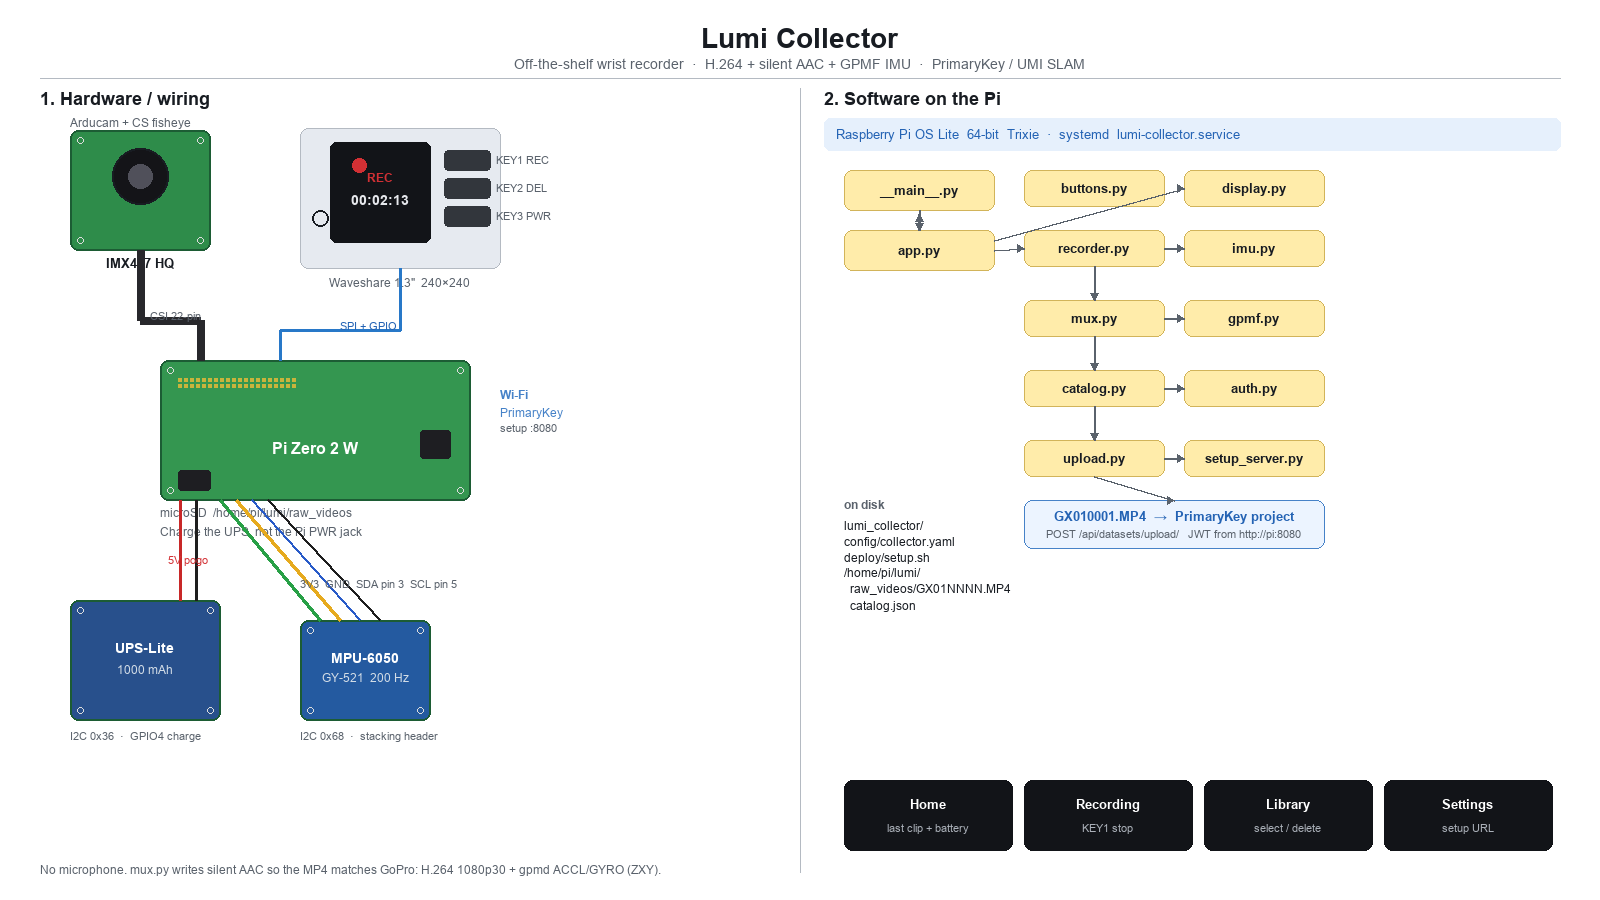
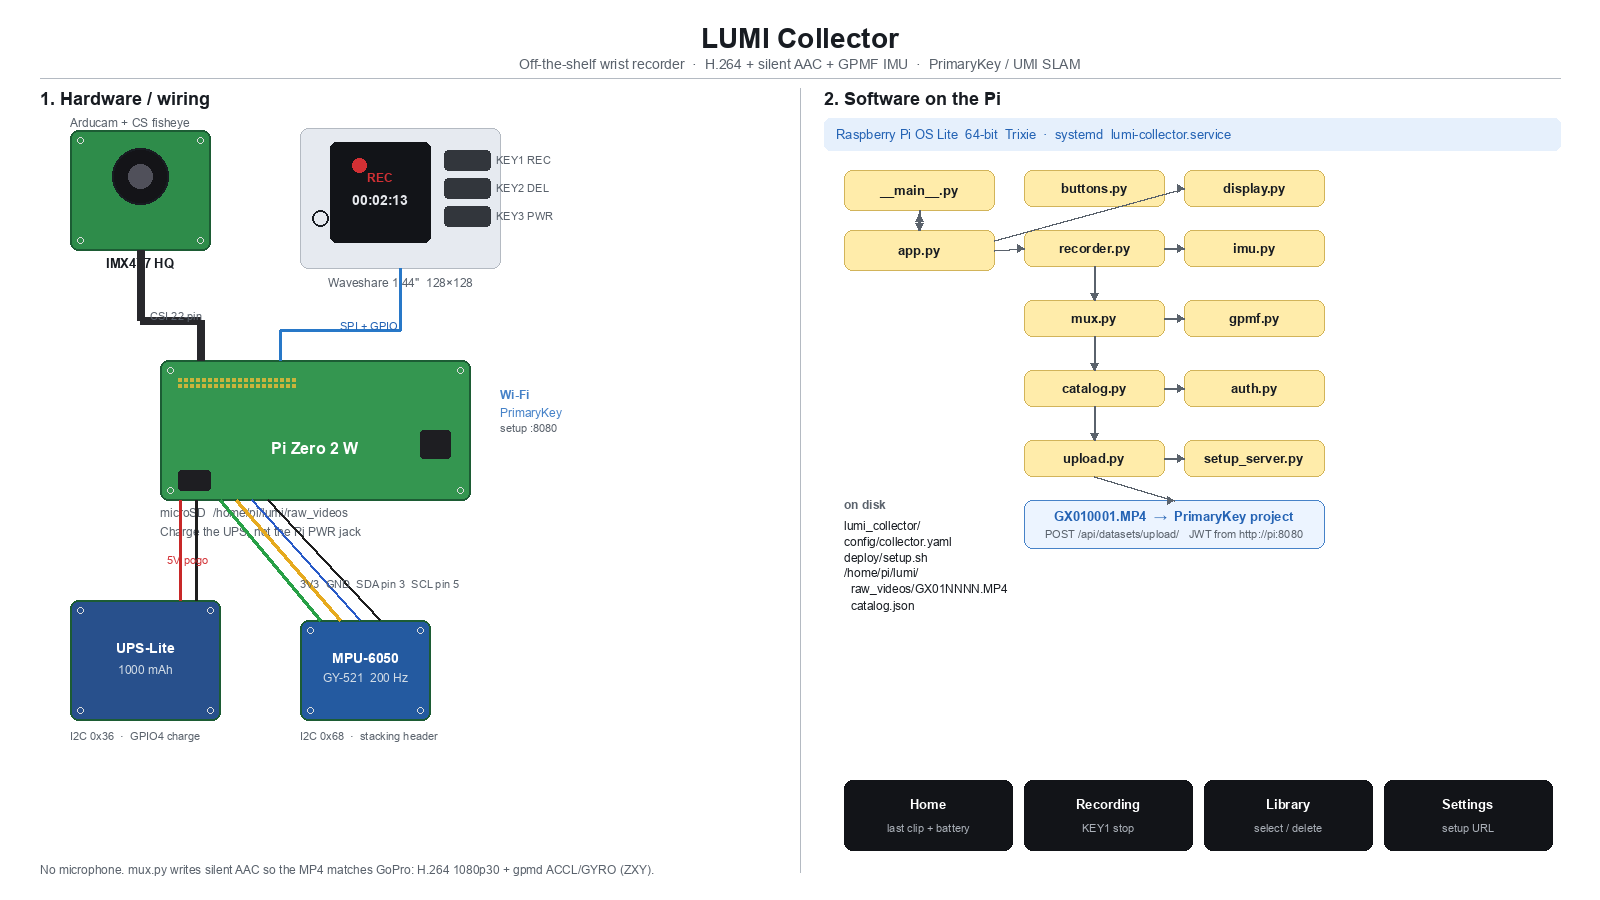
Update project references from "Lumi" to "LUMI" across various files, including descriptions, documentation, and code comments, to ensure consistent branding.

diff --git a/cad/create_onshape_enclosure.py b/cad/create_onshape_enclosure.py
@@ -1,4 +1,4 @@
-"""Create the Lumi collector enclosure as native Onshape sketches.
+"""Create the LUMI collector enclosure as native Onshape sketches.
 
 The Part Studio is sketches + extrudes, not an imported solid. Open any sketch
 in the feature tree and edit it. Key sizes are Onshape variables; the sketch
@@ -421,7 +421,7 @@ def main() -> None:
         "POST",
         "/api/v6/documents",
         {
-            "name": "Lumi collector enclosure",
+            "name": "LUMI collector enclosure",
             "description": (
                 "Drop-in replacement for the GoPro Hero 10 Black in the UMI holder. "
                 "Front profile is the Hero 10 body. Edit the sketches, or the variables "

diff --git a/lumi_collector/setup_server.py b/lumi_collector/setup_server.py
@@ -12,13 +12,13 @@ from lumi_collector.config import CollectorConfig
 
 _PAGE = """<!doctype html>
 <meta name="viewport" content="width=device-width, initial-scale=1">
-<title>Lumi collector</title>
+<title>LUMI collector</title>
 <style>
  body { font: 16px/1.4 system-ui; max-width: 28rem; margin: 2rem auto; padding: 0 1rem; }
  input, select, button { width: 100%; margin: .3rem 0 1rem; padding: .5rem; }
  .ok { color: #1a7f37 } .err { color: #b42318 }
 </style>
-<h1>Lumi collector</h1>
+<h1>LUMI collector</h1>
 <p class="{cls}">{message}</p>
 <form method="post">
  <label>PrimaryKey URL</label>

diff --git a/lumi_collector/display.py b/lumi_collector/display.py
@@ -142,7 +142,7 @@ def render(
     d.text((CANVAS[0] - 6, 3), f"{hud.free_gb:.1f} GB", font=small, fill=MUTED, anchor="ra")
 
     if state.screen is Screen.HOME:
-        d.text((8, 32), "Lumi collector", font=title, fill=FG)
+        d.text((8, 32), "LUMI collector", font=title, fill=FG)
         last = episodes[-1] if episodes else None
         if last is None:
             d.text((8, 60), "no episodes", font=body, fill=MUTED)

diff --git a/cad/add_collector_assembly.py b/cad/add_collector_assembly.py
@@ -6,7 +6,7 @@ Part Studio: 4.0 mm pin hole, center prong 3.0 mm, gaps 3.5 mm, outer prongs
 3.2 mm prongs in those gaps, 3.3 mm slot over the center prong, 14 mm wide,
 4.0 mm hole.
 
-Does not create a new document. Targets the existing Lumi collector enclosure.
+Does not create a new document. Targets the existing LUMI collector enclosure.
 """
 
 from __future__ import annotations

diff --git a/lumi_collector/auth.py b/lumi_collector/auth.py
@@ -80,7 +80,7 @@ class PrimaryKeyClient:
         name: str,
         description: str = "",
     ) -> dict:
-        """Store a raw Lumi session zip (UMI-compatible MP4s).
+        """Store a raw LUMI session zip (UMI-compatible MP4s).
 
         PrimaryKey's dataset API currently accepts ``lerobot`` or ``zarr``.
         A zarr upload is stored as an opaque zip, which is how raw

diff --git a/lumi_collector/upload.py b/lumi_collector/upload.py
@@ -56,7 +56,7 @@ def upload_selected(
         zip_path,
         project_id=project_id,
         name=name,
-        description=f"{len(chosen)} Lumi collector episodes",
+        description=f"{len(chosen)} LUMI collector episodes",
     )
     mark_uploaded(catalog, [e.filename for e in chosen])
     zip_path.unlink(missing_ok=True)

diff --git a/cad/place_stack.py b/cad/place_stack.py
@@ -1,4 +1,4 @@
-"""Place the real Pi, UPS HAT, LCD HAT, and HQ camera in the Lumi enclosure.
+"""Place the real Pi, UPS HAT, LCD HAT, and HQ camera in the LUMI enclosure.
 
 The lid is the back of the enclosure (+Y). The LCD faces that lid so the
 glass, three buttons, and joystick come through it. The camera barrel points

diff --git a/docs/render_architecture.py b/docs/render_architecture.py
@@ -98,7 +98,7 @@ def main() -> None:
     img = Image.new("RGB", (W, H), WHITE)
     d = ImageDraw.Draw(img)
 
-    label(d, (W / 2, 28), "Lumi Collector", size=28, bold=True, anchor="mt")
+    label(d, (W / 2, 28), "LUMI Collector", size=28, bold=True, anchor="mt")
     label(
         d,
         (W / 2, 58),

diff --git a/lumi_collector/gpmf.py b/lumi_collector/gpmf.py
@@ -104,7 +104,7 @@ def build_payload(
     serial: str,
     acc_total: int,
     gyr_total: int,
-    device_name: str = "Lumi Collector",
+    device_name: str = "LUMI Collector",
     device_id: int = 1,
 ) -> bytes:
     """One ~1 s GPMF payload: DEVC with ACCL and GYRO streams."""

diff --git a/lumi_collector/__init__.py b/lumi_collector/__init__.py
@@ -1,3 +1,3 @@
-"""Lumi handheld collector — light UMI for Raspberry Pi Zero 2 W."""
+"""LUMI handheld collector — light UMI for Raspberry Pi Zero 2 W."""
 
 __version__ = "0.1.0"

diff --git a/README.md b/README.md
@@ -1,4 +1,4 @@
-# Lumi collector (Pi Zero 2 W)
+# LUMI collector (Pi Zero 2 W)
 
 A GoPro Hero 10–shaped gripper recorder: one button starts an episode, the
 file on the SD card is an MP4 with H.264, audio, and a `gpmd` IMU track so
